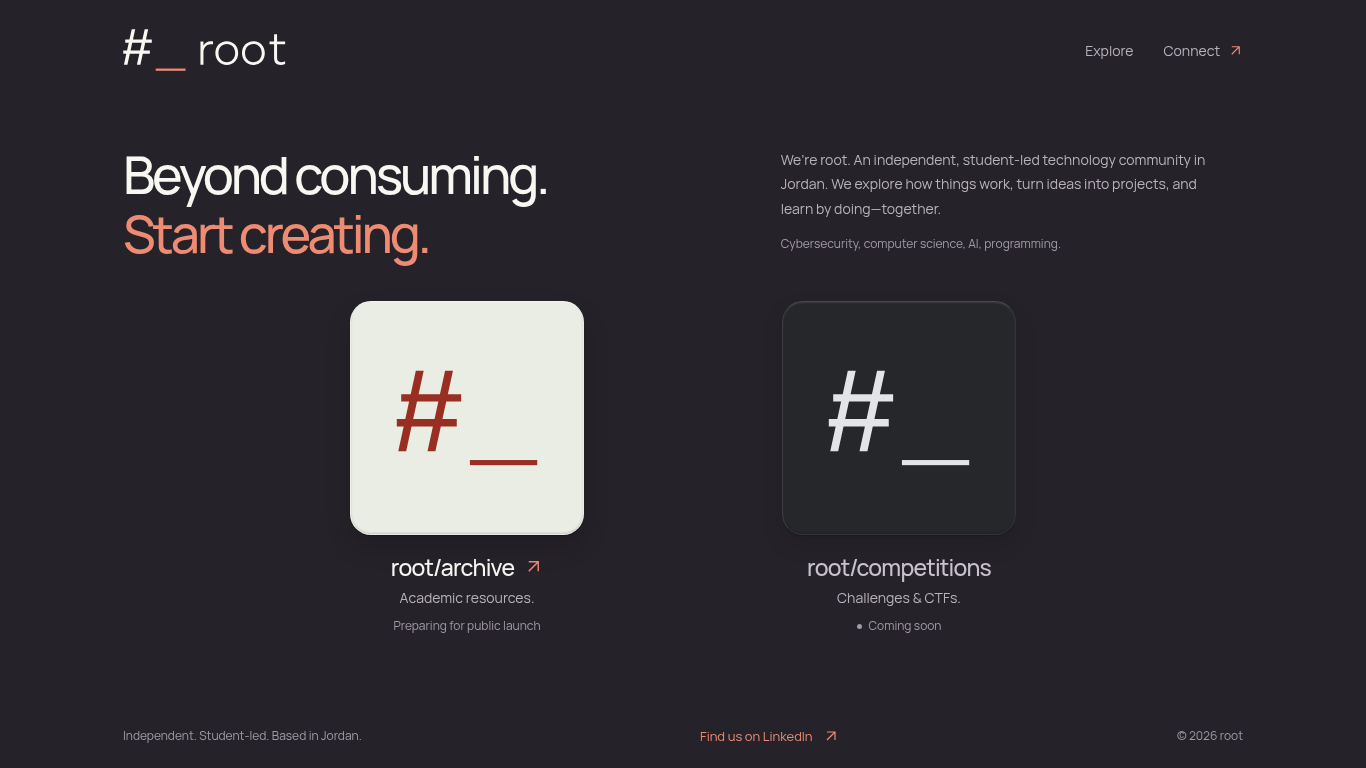
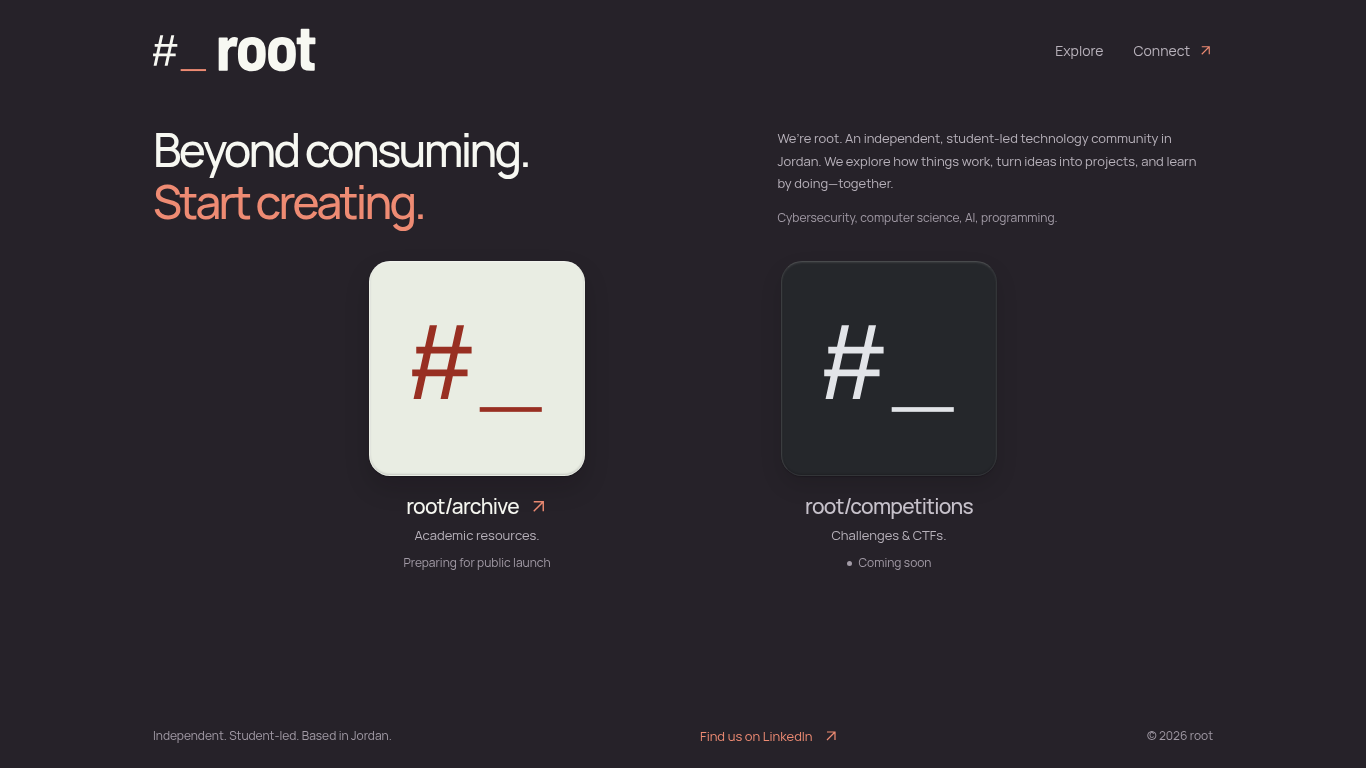
Use approved Barlow lockup and refine overall scale

diff --git a/site/styles.css b/site/styles.css
@@ -14,7 +14,7 @@
   --muted: #b8b2bb;
   --quiet: #a29ba6;
   --line: #403a43;
-  --art-size: clamp(218.4px, 30.42vh, 265.2px);
+  --art-size: clamp(200px, 28vh, 244px);
   --font: Manrope, "Segoe UI", Arial, sans-serif;
 }
 
@@ -26,29 +26,29 @@ a { color: inherit; text-decoration: none; -webkit-tap-highlight-color: transpar
 a:focus-visible { outline: 2px solid var(--coral); outline-offset: 7px; border-radius: 4px; }
 p, h1, h2, h3 { margin: 0; }
 img { display: block; max-width: 100%; height: auto; }
-.wrap { width: min(1120px, calc(100% - 96px)); margin-inline: auto; }
+.wrap { width: min(1060px, calc(100% - 96px)); margin-inline: auto; }
 .visually-hidden { position: absolute; width: 1px; height: 1px; padding: 0; margin: -1px; overflow: hidden; clip-path: inset(50%); white-space: nowrap; border: 0; }
 .skip-link { position: fixed; z-index: 10; left: 20px; top: 16px; padding: 12px 20px; background: var(--cream); color: var(--plum); transform: translateY(-160%); }
 .skip-link:focus { transform: none; }
 .arrow { display: block; width: 19px; height: 19px; flex: 0 0 auto; fill: none; stroke: currentColor; stroke-width: 1.5; }
 
 .site-header { display: flex; align-items: center; justify-content: space-between; min-height: 100px; padding-block: 12px; }
-.brand { display: block; width: 192px; margin-left: -14px; flex-shrink: 0; }
+.brand { display: block; width: 184px; margin-left: -11px; flex-shrink: 0; }
 .brand img { width: 100%; }
 .site-header nav { display: flex; gap: 30px; align-items: center; }
 .site-header nav a { min-height: 44px; display: inline-flex; gap: 8px; align-items: center; font-size: 14px; color: var(--muted); transition: color 180ms ease; }
 .site-header nav a:hover { color: var(--cream); }
 .site-header .arrow { width: 15px; height: 15px; color: var(--coral); }
 
-main.wrap { flex: 1; display: flex; flex-direction: column; justify-content: center; gap: 38px; padding-block: 8px 32px; }
+main.wrap { flex: 1; display: flex; flex-direction: column; justify-content: center; gap: 32px; padding-block: 4px 112px; }
 main:focus { outline: none; }
 .introduction { display: grid; grid-template-columns: 1.25fr 1fr; align-items: start; gap: 80px; }
-.introduction h1 { font-size: clamp(40px, 3.8vw, 52px); font-weight: 500; line-height: 1.14; letter-spacing: -.06em; }
+.introduction h1 { font-size: clamp(36px, 3.4vw, 46px); font-weight: 500; line-height: 1.14; letter-spacing: -.06em; }
 .introduction h1 span { color: var(--coral); }
-.community-copy { max-width: 440px; padding-top: 3px; font-size: 14px; line-height: 1.75; color: var(--muted); }
+.community-copy { max-width: 440px; padding-top: 3px; font-size: 13px; line-height: 1.75; color: var(--muted); }
 .community-copy p + p { margin-top: 12px; font-size: 12px; color: var(--quiet); }
 
-.project-grid { display: grid; grid-template-columns: repeat(auto-fit, minmax(min(100%, 260px), 1fr)); gap: 64px; max-width: 800px; list-style: none; padding: 0; margin: 0 auto; }
+.project-grid { display: grid; grid-template-columns: repeat(auto-fit, minmax(min(100%, 260px), 1fr)); gap: 64px; max-width: 760px; list-style: none; padding: 0; margin: 0 auto; }
 .project { display: flex; flex-direction: column; align-items: center; text-align: center; }
 /* The complete approved SVG is the surface. There is no surrounding card,
    background replacement, path reconstruction, mask, or logo filter. */
@@ -58,9 +58,9 @@ main:focus { outline: none; }
 .project-upcoming .project-art { box-shadow: 0 1px 1px rgb(9 6 12 / .2), 0 10px 22px rgb(9 6 12 / .12); }
 .project-upcoming .project-art::after { border-color: rgb(247 248 242 / .07); border-top-color: rgb(247 248 242 / .17); border-left-color: rgb(247 248 242 / .11); box-shadow: inset 0 1px 2px rgb(247 248 242 / .1), inset 0 -1px 2px rgb(9 6 12 / .2); }
 .project-details { margin-top: 16px; }
-.project-details h3 { display: flex; justify-content: center; align-items: center; gap: 10px; font-size: 23px; font-weight: 500; line-height: 1.4; letter-spacing: -.035em; }
+.project-details h3 { display: flex; justify-content: center; align-items: center; gap: 10px; font-size: 21px; font-weight: 500; line-height: 1.4; letter-spacing: -.035em; }
 .project-details .arrow { color: var(--coral); transition: transform 220ms ease; }
-.project-details > p:not(.project-status) { margin-top: 4px; color: var(--muted); font-size: 14px; line-height: 1.6; }
+.project-details > p:not(.project-status) { margin-top: 4px; color: var(--muted); font-size: 13px; line-height: 1.6; }
 .project-status { display: flex; justify-content: center; align-items: center; gap: 7px; margin-top: 8px; color: var(--quiet); font-size: 12px; line-height: 1.5; }
 .status-dot { width: 5px; height: 5px; border-radius: 50%; background: currentColor; }
 .project-upcoming h3 { color: #c7c2cb; }
@@ -86,29 +86,29 @@ main:focus { outline: none; }
 @media (max-width: 900px) {
   .wrap { width: calc(100% - 64px); }
   .introduction { gap: 36px; grid-template-columns: 1.1fr 1fr; }
-  .introduction h1 { font-size: 39px; }
+  .introduction h1 { font-size: 36px; }
   .community-copy { font-size: 13px; }
   .project-grid { gap: 40px; grid-template-columns: repeat(auto-fit, minmax(min(100%, 240px), 1fr)); }
-  .project-art { width: min(var(--art-size), 222.3px); }
+  .project-art { width: min(var(--art-size), 204px); }
   .site-footer { flex-wrap: wrap; gap: 4px 24px; }
 }
 
 @media (max-width: 600px) {
   .wrap { width: calc(100% - 40px); }
   .site-header { min-height: 87px; padding-block: 10px; }
-  .brand { width: 160px; margin-left: -12px; }
+  .brand { width: 144px; margin-left: -9px; }
   .site-header nav { gap: 19px; }
   .site-header nav a { font-size: 12px; gap: 5px; }
   .site-header .arrow { width: 13px; height: 13px; }
-  main.wrap { padding-block: 20px 28px; gap: 26px; }
+  main.wrap { padding-block: 10px 28px; gap: 26px; }
   .introduction { grid-template-columns: 1fr; gap: 18px; }
-  .introduction h1 { font-size: clamp(31px, 8.7vw, 42px); line-height: 1.15; letter-spacing: -.055em; }
-  .community-copy { max-width: 390px; padding-top: 0; font-size: 14px; line-height: 1.75; }
+  .introduction h1 { font-size: clamp(29px, 8vw, 38px); line-height: 1.15; letter-spacing: -.055em; }
+  .community-copy { max-width: 390px; padding-top: 0; font-size: 13px; line-height: 1.75; }
   .community-copy p + p { margin-top: 10px; font-size: 12px; }
   .project-grid { grid-template-columns: 1fr; gap: 30px; }
-  .project-art { width: 210.6px; border-radius: 19px; }
+  .project-art { width: 194px; border-radius: 19px; }
   .project-details { margin-top: 14px; }
-  .project-details h3 { font-size: 23px; }
+  .project-details h3 { font-size: 21px; }
   .project-status { font-size: 12px; }
   .site-footer { padding-block: 8px 20px; display: grid; grid-template-columns: 1fr auto; gap: 2px 12px; }
   .site-footer > p:first-child { grid-column: 1 / -1; font-size: 11px; }

diff --git a/site/404.html b/site/404.html
@@ -12,7 +12,7 @@
 </head>
 <body>
   <header class="site-header wrap">
-    <a class="brand" href="/" aria-label="root — home"><img src="/assets/brand/root-lockup-dark-transparent.svg" width="592" height="217" alt="root"></a>
+    <a class="brand" href="/" aria-label="root — home"><img src="/assets/brand/root-barlow-lockup-dark-transparent.svg" width="900" height="330" alt="root"></a>
   </header>
   <main class="not-found wrap">
     <p class="eyebrow">404 / Page not found</p>

diff --git a/site/index.html b/site/index.html
@@ -28,7 +28,7 @@
 
   <header class="site-header wrap">
     <a class="brand" href="#top" aria-label="root — home">
-      <img src="assets/brand/root-lockup-dark-transparent.svg" width="592" height="217" alt="root">
+      <img src="assets/brand/root-barlow-lockup-dark-transparent.svg" width="900" height="330" alt="root">
     </a>
     <nav aria-label="Main navigation">
       <a href="#explore">Explore</a>

diff --git a/scripts/render-social.py b/scripts/render-social.py
@@ -45,7 +45,7 @@ def main():
     with tempfile.TemporaryDirectory(prefix="root-social-") as temporary:
         logo_path = Path(temporary) / "wordmark.png"
         subprocess.run(
-            [inkscape, str(ASSETS / "brand/root-lockup-dark-transparent.svg"),
+            [inkscape, str(ASSETS / "brand/root-barlow-lockup-dark-transparent.svg"),
              "--export-type=png", f"--export-width={210 * SCALE}",
              f"--export-filename={logo_path}"],
             check=True, capture_output=True,

diff --git a/docs/validation.md b/docs/validation.md
@@ -1,115 +1,54 @@
-# Design revision validation — 2026-11-14
+# Targeted refinement validation — 2026-11-14
 
-## Targeted size correction and pending brand asset
+The supplied `root-barlow-lockup-dark-transparent.svg` now establishes the
+parent identity in the masthead and 404 page. It is copied byte for byte from
+the latest upload, preserving its outlined Barlow wordmark, geometry, colors,
+and transparency. Its rendered header appearance was visually compared against
+the supplied SVG reference. The sharing image was regenerated with the same
+approved parent lockup. The earlier missing-asset blocker is resolved.
 
-Project artwork is uniformly 22% smaller than the preceding revision at all
-five tested widths. Grid width, introduction spacing, artwork-to-caption gaps,
-and mobile/footer spacing were adjusted without changing content or behavior.
-Desktop and mobile screenshots were visually inspected again; all automated
-browser checks pass and axe reports zero violations.
+The project artwork is a further approximately 8% smaller than the preceding
+revision, with equal sizing and the same original project SVGs. Heading and
+supporting text are slightly smaller, the desktop content width is narrower,
+and the introduction/launcher group sits higher. Content and behavior remain
+unchanged. No new section or effect was added.
 
-The requested `root-barlow-lockup-dark-transparent.svg` is missing after a
-workspace search. The new upload is `root-barlow-lockup-dark.svg`, which has
-the intended bold outlined Barlow wordmark and a solid plum background. Its
-reference rendering was inspected. It has not been substituted: use of that
-exact opaque asset is awaiting the user's answer. Screenshots currently retain
-the previous thin wordmark, which remains an unresolved branding issue.
+## Browser verification
 
-## Rendered result
+Desktop 1440 × 900 and mobile 390 × 844 screenshots were visually inspected,
+including the actual bold header artwork. Laptop and desktop retain a natural
+single-screen layout. Mobile scrolls vertically without horizontal overflow.
 
-The compact homepage was rendered in Chromium using an isolated localhost
-server with the site's actual Content Security Policy and response headers.
-The complete approved SVGs render directly, including their original background
-colors. No mask, clip path, reconstructed brand path, opacity change, or
-perspective transform is used on the logo images.
+| Viewport | Document size | Project surface, each |
+| --- | --- | --- |
+| desktop-1440x900 | 1440 × 900 | 244.0px |
+| laptop-1366x768 | 1366 × 768 | 215.0px |
+| mobile-390x844 | 390 × 1039 | 194.0px |
+| tablet-768x1024 | 768 × 1024 | 204.0px |
+| narrow-320x740 | 320 × 1078 | 194.0px |
 
-| Viewport | Document size | Logo surface | Result |
-| --- | --- | --- | --- |
-| Desktop 1440 × 900 | 1440 × 900 | About 265 × 265 each | Fits one viewport |
-| Laptop 1366 × 768 | 1366 × 768 | About 234 × 234 each | Fits one viewport |
-| Mobile 390 × 844 | 390 × 1103 | About 211 × 211 each | Natural vertical scroll |
-| Tablet 768 × 1024 | 768 × 1024 | About 222 × 222 each | No horizontal overflow |
-| Narrow mobile 320 × 740 | 320 × 1141 | About 211 × 211 each | No horizontal overflow |
+The reproducible `scripts/check-browser.cjs` check passed for all five sizes:
+actual logo foreground/background pixels, approved asset fingerprints and
+proportions, font loading, no horizontal overflow, no console errors, no failed
+assets, and no third-party page requests. Axe reports zero WCAG 2 A/AA, 2.1 AA,
+and 2.2 AA violations. Keyboard order, visible focus, skip-to-main, archive
+hover/focus and navigation, noninteractive competitions, reduced motion, and
+the custom 404 pass. Navigation uses an intercepted response and does not
+establish remote archive availability.
 
-All three requested screenshots were inspected. The first revision's laptop
-capture exposed a 15px vertical overflow. The visual correction pass shortened
-the supporting copy and tightened the main/footer spacing, while increasing
-the laptop artwork from about 292px to 300px. A second rendered inspection
-confirmed that the full laptop page fits naturally, without a fixed page height
-or overflow clipping. The desktop screenshot also fits naturally. Mobile keeps
-prominent artwork and stacks the projects.
-
-- [Desktop — 1440 × 900](screenshots/desktop-1440x900.png)
-- [Laptop — 1366 × 768](screenshots/laptop-1366x768.png)
-- [Mobile — 390 × 844, full page](screenshots/mobile-390x844.png)
-- [Machine-readable measurements](screenshots/results.json)
-
-## Branding
-
-The visible parent brand is `site/assets/brand/root-lockup-dark-transparent.svg`.
-The two launcher identities are `root-archive.svg` and `root-competitions.svg`.
-The favicon is `root.svg`. Each matches its corresponding user-supplied original
-byte for byte. The unused light/dark lockup alternatives also remain unchanged.
-SHA-256 fingerprints for the four used assets are enforced by the browser check.
-
-The standalone square logo artwork supplies its own approved surface. Only
-that surface receives rounded background corners, a thin perimeter highlight,
-and a shallow shadow. The project text is outside the artwork; no card or
-bordered panel surrounds the full project element. Competitions retains its
-original colors and uses a quieter perimeter treatment.
-
-## Automated browser checks
-
-Run from the repository root with the optional development tools available:
+Commands:
 
 ```sh
 NODE_PATH=/tmp/root-qa-node/node_modules:/opt/codex/runtimes/codex-primary-runtime/dependencies/node/node_modules node scripts/check-browser.cjs
+python3 scripts/render-social.py
+node --check scripts/check-browser.cjs
+git diff --check
 ```
 
-The README gives a portable installation command. None of these tools is a
-site runtime or Cloudflare build dependency.
+The README includes portable development-tool setup. These tools are not
+runtime or Cloudflare build dependencies. Screenshots and measurements are in
+`docs/screenshots/`. No unresolved branding/rendering issue was observed in the
+tested Chromium captures. Safari, Firefox, screen-reader operation, remote link
+availability, and deployed Cloudflare behavior are not verified.
 
-Passed at all five widths:
-
-- Both logo images load at their original square proportions and remain large.
-- Actual screenshot pixels contain the expected oxide/ivory and silver/graphite
-  artwork. This catches the previous failure where the files loaded but the
-  CSS treatment hid all artwork. Both symbols occupy approximately 4% of their
-  approved square surfaces; original backgrounds remain visible.
-- Desktop document heights equal the viewport heights. No horizontal overflow
-  occurs at any tested size.
-- Header SVG retains its exact original 592:217 proportions.
-- The self-hosted Manrope font loads, all assets return successfully, there are
-  no browser console/page errors, and page loading makes no third-party requests.
-- Axe WCAG 2 A/AA, 2.1 AA, and 2.2 AA checks report **zero violations**.
-
-Additional browser checks passed:
-
-- Tab order: skip link, parent logo, Explore, Connect, archive, LinkedIn.
-- Every tab stop has a visible focus outline; the skip link focuses `main`.
-- Archive responds to hover/focus with a restrained 2px lift.
-- Competitions has no link/button role or tab stop and does not lift on hover.
-- Reduced-motion preference disables translations, transitions, and smooth scroll.
-- Clicking the archive artwork navigates to its exact supplied URL. The
-  response was intercepted locally; this does not verify remote availability.
-- Unknown paths return the custom 404 document in the test server.
-
-## Source checks
-
-Strict HTML5 parsing of both pages passed with html5lib 1.1. CSS and media-query
-syntax passed with tinycss2 1.5.1. SVGs and the sitemap parse as XML. All local
-file and fragment references resolve, IDs are unique, and every brand file
-matches the original attachment. `node --check scripts/check-browser.cjs` and
-`git diff --check` pass. Body text palette contrast remains at least 5.79:1
-against plum-black.
-
-## Limits and deployment boundary
-
-The header asset issue described above remains unresolved. No other rendering
-issue was observed in the tested Chromium renders. Firefox, Safari, screen-reader operation, remote service availability,
-and Cloudflare's deployed response behavior were not tested. Axe and keyboard
-checks do not replace a full assistive-technology audit.
-
-The deployable output remains the buildless `site/` directory. This revision
-changes no Cloudflare project, production deployment, DNS, domain configuration,
-or merge state. The existing feature branch and PR are used for review.
+No merge, production deployment, DNS, or domain configuration was changed.

diff --git a/README.md b/README.md
@@ -63,7 +63,7 @@ year in the HTML when needed.
 
 ## Brand provenance
 
-The five main root SVGs and the two project SVGs are the supplied attachments,
+The root lockups, parent symbol, and two project SVGs are supplied attachments,
 preserved byte for byte. Only archive and competitions appear in the launcher.
 
 Archive uses the approved `#982F22` mark on `#E9EDE3`; competitions uses
@@ -75,7 +75,7 @@ surface corners and adds a restrained perimeter highlight and shallow shadow.
 Names, descriptions, and statuses sit beneath the artwork, outside its surface.
 Competitions has a quieter perimeter treatment and an explicit upcoming status.
 
-The header uses `root-lockup-dark-transparent.svg`; the launcher uses
+The header uses `root-barlow-lockup-dark-transparent.svg`; the launcher uses
 `root-archive.svg` and `root-competitions.svg`; the favicon uses `root.svg`.
 SHA-256 fingerprints of these approved files are recorded in the browser check.
 
